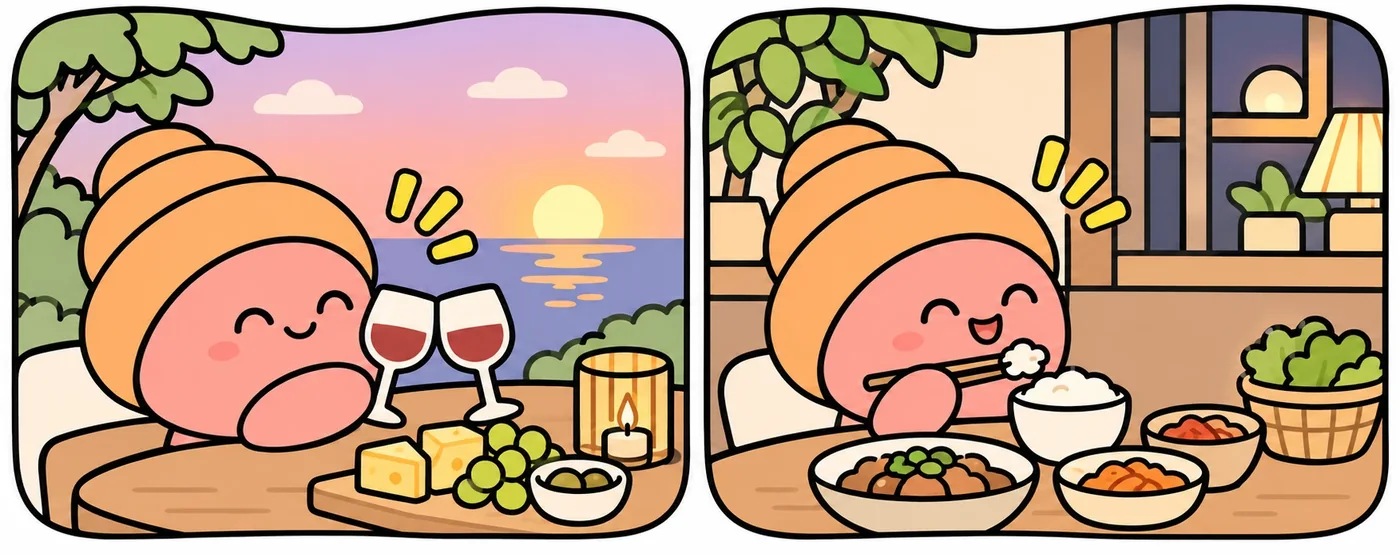
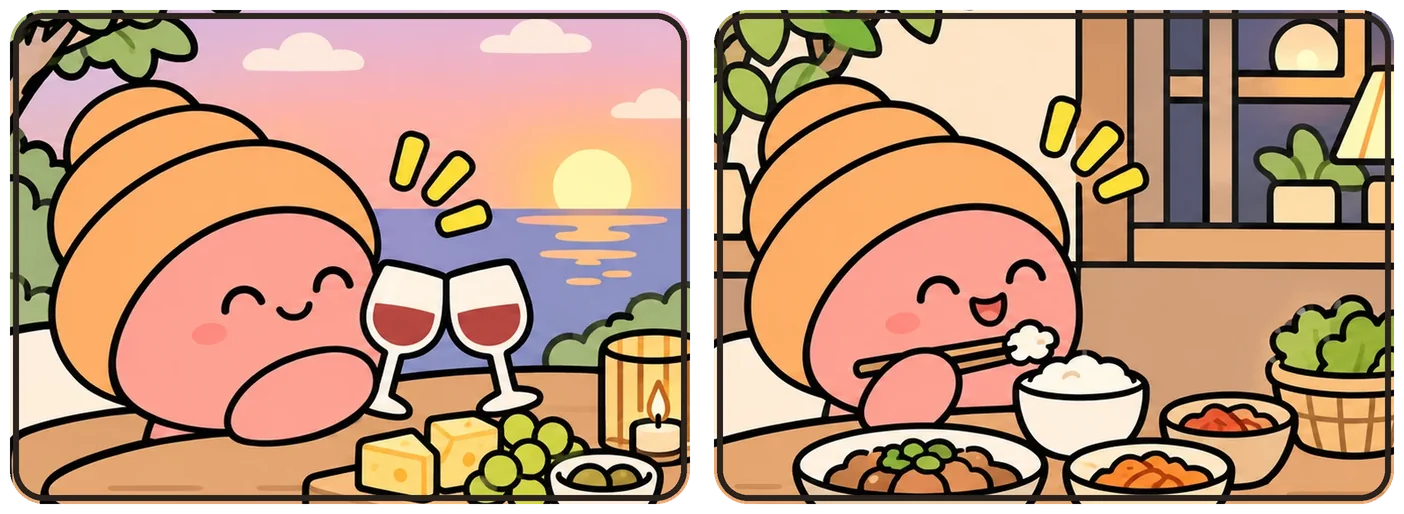
취향 테스트 그림 테두리 통일 — 10장 모두 Q1처럼 같은 크기 · 같은 둥근 테두리
- 물결 모양 · 두께가 제각각이던 원래 테두리 안쪽만 잘라, 두 칸을 같은 비율로 맞추고 진한 갈색 둥근 테두리(6px)를 다시 그림
- 바깥은 투명 (1404 × 514 webp)

diff --git a/src/pages/TestPage.tsx b/src/pages/TestPage.tsx
@@ -133,7 +133,7 @@ export default function TestPage({ sharedCode, mine = false }: { sharedCode: str
               {/* 질문 그림 — 왼쪽 칸이 A, 오른쪽 칸이 B (선택지 글과 같은 내용이라 읽기 도구에는 숨김) */}
               {questions[qi].image && (
                 <div className="test__pic" aria-hidden="true">
-                  <img src={questions[qi].image} alt="" width={1400} height={548} />
+                  <img src={questions[qi].image} alt="" width={1404} height={514} />
                   <span className="test__pickey test__pickey--a">A</span>
                   <span className="test__pickey test__pickey--b">B</span>
                 </div>

diff --git a/src/data/quiz.ts b/src/data/quiz.ts
@@ -34,7 +34,8 @@ export interface QuizQuestion {
   /** 결과의 '추천 이유' 문장에 쓰이는 짧은 맥락 */
   context: string;
   q: string;
-  /** 질문과 선택지 사이 그림 (public/ 기준) — 왼쪽 칸이 A, 오른쪽 칸이 B. 아직 없으면 비워 둠 */
+  /** 질문과 선택지 사이 그림 (public/ 기준) — 왼쪽 칸이 A, 오른쪽 칸이 B. 아직 없으면 비워 둠
+   *  (그림마다 테두리가 달라 두 칸 모두 같은 크기 · 같은 둥근 테두리로 다시 그려 둠, 1404 × 514) */
   image?: string;
   options: QuizOption[];
 }
